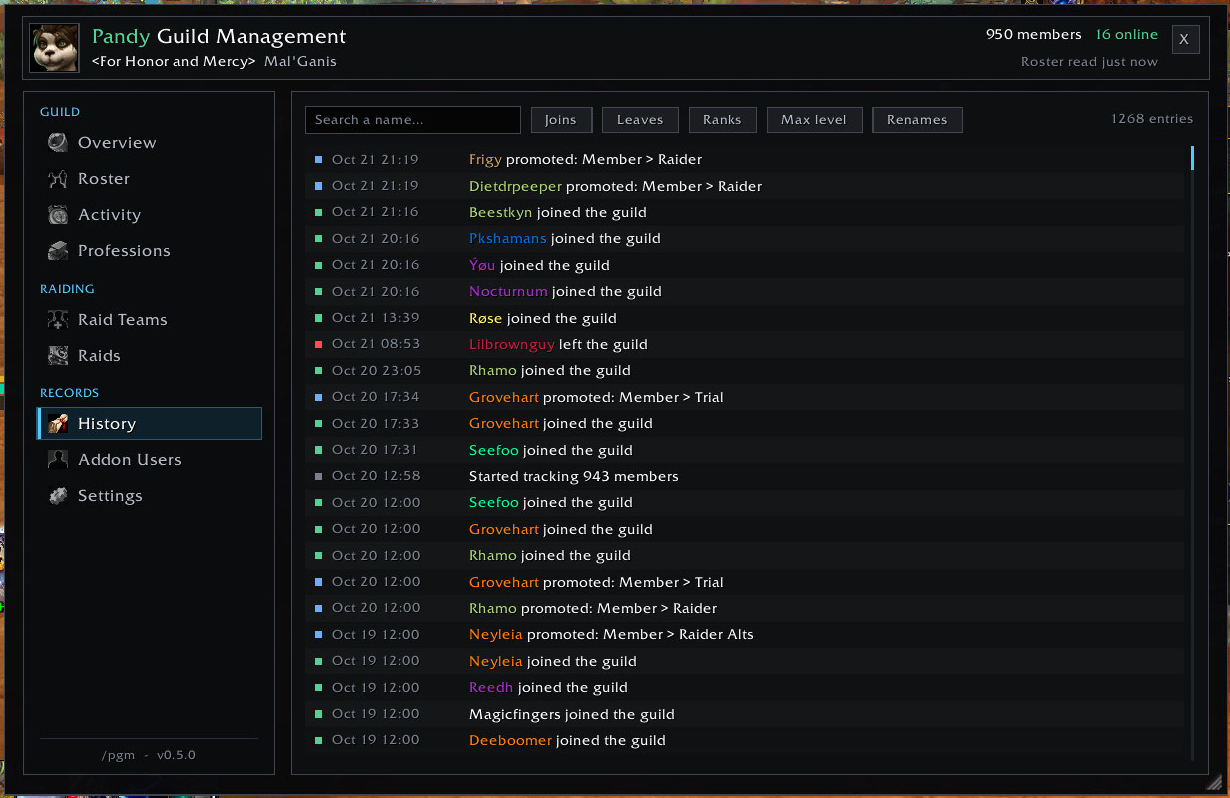
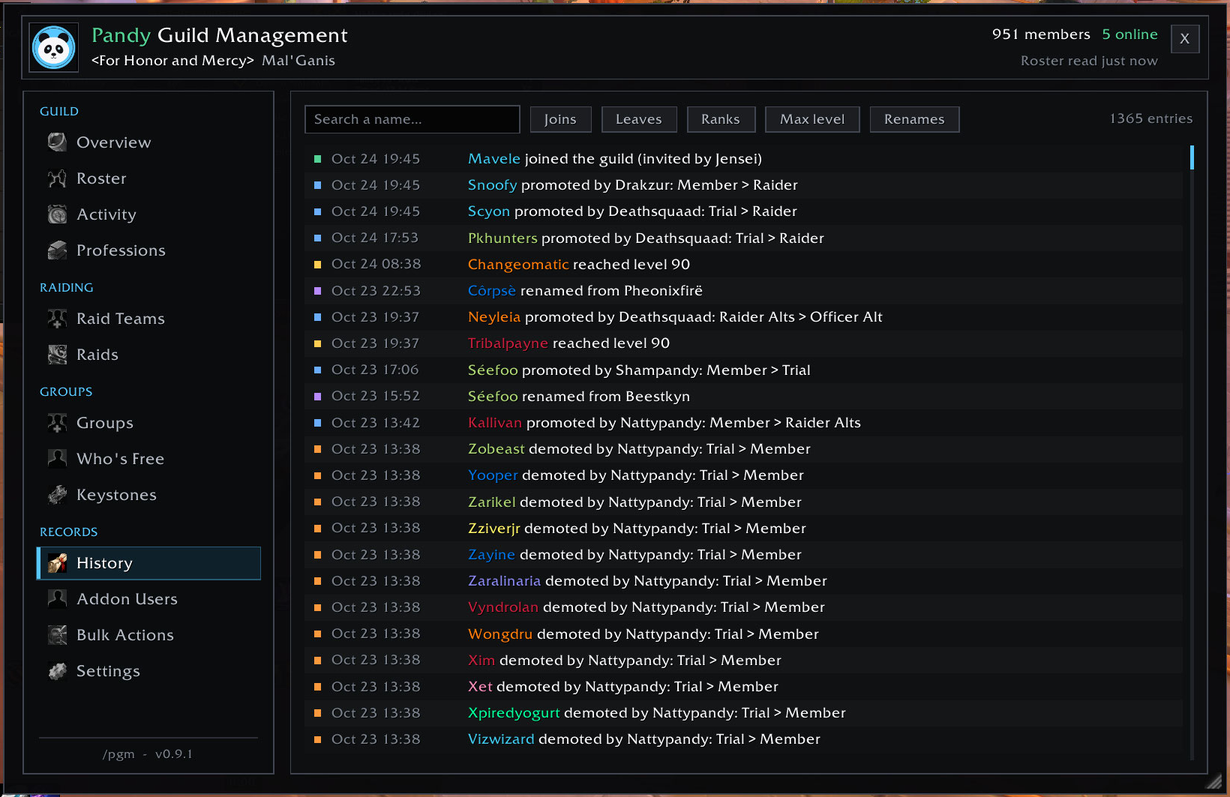
New screenshots for v0.9.1, plus guild crafters, group finder, Who's Free and Keystones

diff --git a/README.md b/README.md
@@ -112,6 +112,8 @@ that member's play time.
 
 ![Professions](screenshots/05-professions.png)
 
+![Guild crafters on the profession window](screenshots/11-guild-crafters.png)
+
 **Raid Teams.** Run as many teams as you like:
 - Each team has a name, a schedule note and a roster.
 - Each member has a role (Tank, Healer or DPS) and a status (Core, Trial or Bench). Click either one to change it.
@@ -168,6 +170,12 @@ filter.
 - Who's Free shows guildies up for a group; Keystones shows everyone's key.
 - `/pgg` opens it. Turn it off in Settings or with `/pgg off`.
 - The full guide: [Groups/README.md](Groups/README.md).
+
+![Groups](screenshots/12-group-finder.png)
+
+![Who's Free](screenshots/13-whos-free.png)
+
+![Keystones](screenshots/14-keystones.png)
 
 **Bulk Actions.** Kick, promote or demote many members at once, by rules.
 Officers only (the same people who can edit raid teams), and only what the
